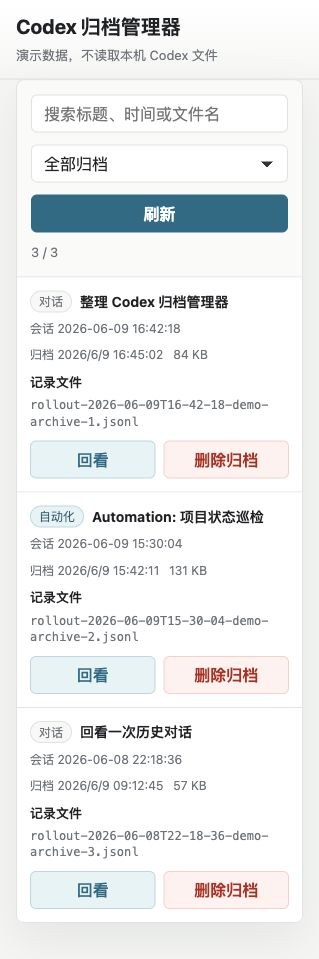
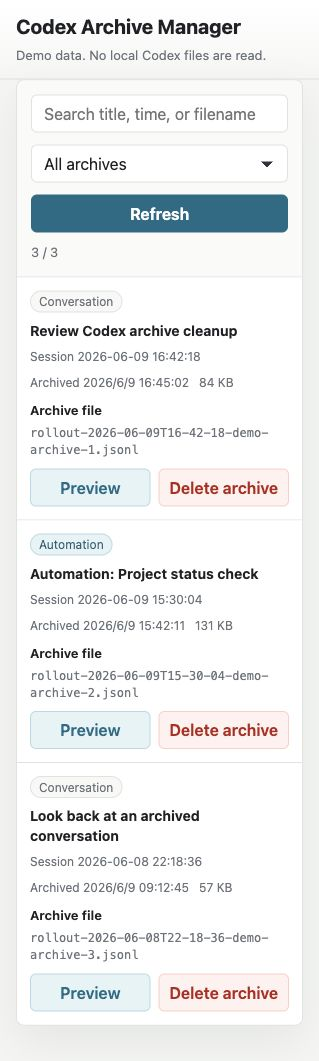
Switch interface copy to English

diff --git a/server.js b/server.js
@@ -69,19 +69,18 @@ function rolloutTimeFromName(name) {
 
 function localTime(seconds) {
   if (!seconds) return '';
-  return new Date(seconds * 1000).toLocaleString('zh-CN', {
-    timeZone: 'Asia/Shanghai',
+  return new Date(seconds * 1000).toLocaleString('en-US', {
     hour12: false,
   });
 }
 
 function compactTitle(row, id) {
   const raw = String(row?.title || row?.first_user_message || row?.preview || '').trim();
-  if (!raw) return `(未找到标题：${id})`;
+  if (!raw) return `(Untitled: ${id})`;
   const oneLine = raw.replace(/\s+/g, ' ').trim();
   if (oneLine.startsWith('Automation:')) {
     const match = oneLine.match(/Last run: (never|[0-9TZ:.\-]+)/);
-    return match ? `Automation: EyeFlow 对话轮换监控 (${match[1]})` : 'Automation: EyeFlow 对话轮换监控';
+    return match ? `Automation: EyeFlow conversation rotation monitor (${match[1]})` : 'Automation: EyeFlow conversation rotation monitor';
   }
   return oneLine.length > 120 ? `${oneLine.slice(0, 117)}...` : oneLine;
 }
@@ -280,7 +279,7 @@ const page = String.raw`<!doctype html>
 <head>
   <meta charset="utf-8">
   <meta name="viewport" content="width=device-width, initial-scale=1">
-  <title>Codex 归档管理器</title>
+  <title>Codex Archive Manager</title>
   <style>
     :root {
       color-scheme: light;
@@ -461,6 +460,7 @@ const page = String.raw`<!doctype html>
     button {
       cursor: pointer;
       font-weight: 620;
+      white-space: nowrap;
       transition: background-color .16s ease, border-color .16s ease, color .16s ease, transform .16s ease;
     }
     button:hover:not(:disabled) {
@@ -916,9 +916,10 @@ const page = String.raw`<!doctype html>
       justify-content: flex-start;
     }
     body.sidebar .row-actions button {
-      flex: 1 1 96px;
+      flex: 1 1 120px;
       height: 34px;
       padding: 0 8px;
+      font-size: 13px;
     }
     body.sidebar .row-meta {
       gap: 7px;
@@ -930,24 +931,24 @@ const page = String.raw`<!doctype html>
     <div class="shell">
       <div class="topbar">
         <div class="brand">
-          <h1>Codex 归档管理器</h1>
-          <div class="subtitle" id="archivePath">本地归档</div>
+          <h1>Codex Archive Manager</h1>
+          <div class="subtitle" id="archivePath">Local archive</div>
         </div>
       </div>
     </div>
   </header>
   <main>
-    <section class="workspace" aria-label="归档列表">
+    <section class="workspace" aria-label="Archive list">
       <div class="controls">
-        <label class="sr-only" for="q">搜索</label>
-        <input id="q" placeholder="搜索标题、时间或文件名">
-        <label class="sr-only" for="filter">筛选</label>
+        <label class="sr-only" for="q">Search</label>
+        <input id="q" placeholder="Search title, time, or filename">
+        <label class="sr-only" for="filter">Filter</label>
         <select id="filter">
-          <option value="all">全部归档</option>
-          <option value="normal">普通对话</option>
-          <option value="automation">自动化记录</option>
+          <option value="all">All archives</option>
+          <option value="normal">Conversations</option>
+          <option value="automation">Automation runs</option>
         </select>
-        <button id="refresh" class="primary">刷新</button>
+        <button id="refresh" class="primary">Refresh</button>
         <span id="meta" class="meta">0 / 0</span>
       </div>
       <div id="rows" class="archive-list"></div>
@@ -956,24 +957,24 @@ const page = String.raw`<!doctype html>
 
   <dialog id="confirm">
     <div class="modal">
-      <h2 id="confirmTitle">确认删除</h2>
+      <h2 id="confirmTitle">Confirm delete</h2>
       <p id="confirmBody"></p>
       <div class="modal-actions">
-        <button id="cancel">取消</button>
-        <button id="confirmDelete" class="danger">确认删除</button>
+        <button id="cancel">Cancel</button>
+        <button id="confirmDelete" class="danger">Confirm delete</button>
       </div>
     </div>
   </dialog>
   <dialog id="details" class="detail-dialog">
     <div class="modal">
-      <h2 id="detailsTitle">回看归档</h2>
+      <h2 id="detailsTitle">Archive Preview</h2>
       <div class="detail-body">
         <dl class="detail-meta" id="detailsMeta"></dl>
         <div class="transcript" id="detailsMessages"></div>
       </div>
       <div class="modal-actions">
-        <button id="openProject" class="ghost">打开项目文件夹</button>
-        <button id="closeDetails" class="primary">关闭</button>
+        <button id="openProject" class="ghost">Open project folder</button>
+        <button id="closeDetails" class="primary">Close</button>
       </div>
     </div>
   </dialog>
@@ -1016,7 +1017,7 @@ const page = String.raw`<!doctype html>
       return [
         {
           id: 'demo-archive-1',
-          title: '整理 Codex 归档管理器',
+          title: 'Review Codex archive cleanup',
           rolloutTime: '2026-06-09 16:42:18',
           archivedAt: '2026/6/9 16:45:02',
           updatedAt: '2026-06-09 16:42:18',
@@ -1027,7 +1028,7 @@ const page = String.raw`<!doctype html>
         },
         {
           id: 'demo-archive-2',
-          title: 'Automation: 项目状态巡检',
+          title: 'Automation: Project status check',
           rolloutTime: '2026-06-09 15:30:04',
           archivedAt: '2026/6/9 15:42:11',
           updatedAt: '2026-06-09 15:30:04',
@@ -1038,7 +1039,7 @@ const page = String.raw`<!doctype html>
         },
         {
           id: 'demo-archive-3',
-          title: '回看一次历史对话',
+          title: 'Look back at an archived conversation',
           rolloutTime: '2026-06-08 22:18:36',
           archivedAt: '2026/6/9 09:12:45',
           updatedAt: '2026-06-08 22:18:36',
@@ -1051,9 +1052,9 @@ const page = String.raw`<!doctype html>
     }
 
     function archiveKind(item) {
-      if (!item.exists) return '文件缺失';
-      if (item.title.startsWith('Automation:')) return '自动化';
-      return '对话';
+      if (!item.exists) return 'Missing file';
+      if (item.title.startsWith('Automation:')) return 'Automation';
+      return 'Conversation';
     }
 
     function showToast(message) {
@@ -1080,33 +1081,33 @@ const page = String.raw`<!doctype html>
       const items = visibleItems();
       meta.textContent = items.length + ' / ' + archives.length;
       if (!items.length) {
-        rows.innerHTML = '<div class="empty">没有匹配的归档</div>';
+        rows.innerHTML = '<div class="empty">No matching archives</div>';
         return;
       }
       rows.innerHTML = items.map(item => {
-        const size = item.exists ? item.sizeKB + ' KB' : '<span class="missing">文件已不在归档夹</span>';
+        const size = item.exists ? item.sizeKB + ' KB' : '<span class="missing">File is missing from the archive folder</span>';
         const kind = archiveKind(item);
-        const badgeClass = kind === '自动化' ? 'badge auto' : kind === '文件缺失' ? 'badge missing' : 'badge';
+        const badgeClass = kind === 'Automation' ? 'badge auto' : kind === 'Missing file' ? 'badge missing' : 'badge';
         return ''
           + '<article class="archive-row">'
           + '<div class="row-main">'
           + '<div class="row-topline"><span class="' + badgeClass + '">' + escapeHtml(kind) + '</span><span class="row-title">' + escapeHtml(item.title) + '</span></div>'
-          + '<div class="row-meta"><span>会话 ' + escapeHtml(item.rolloutTime || item.updatedAt || '') + '</span><span>归档 ' + escapeHtml(item.archivedAt || '未记录') + '</span><span>' + size + '</span></div>'
+          + '<div class="row-meta"><span>Session ' + escapeHtml(item.rolloutTime || item.updatedAt || '') + '</span><span>Archived ' + escapeHtml(item.archivedAt || 'Unknown') + '</span><span>' + size + '</span></div>'
           + '</div>'
-          + '<div class="row-side"><strong>记录文件</strong><span class="row-file">' + escapeHtml(item.fileName || item.file) + '</span></div>'
+          + '<div class="row-side"><strong>Archive file</strong><span class="row-file">' + escapeHtml(item.fileName || item.file) + '</span></div>'
           + '<div class="row-actions">'
-          + '<button data-action="view" data-id="' + escapeHtml(item.id) + '" class="ghost">回看</button>'
-          + '<button data-action="index" data-id="' + escapeHtml(item.id) + '" class="danger">删除归档</button>'
+          + '<button data-action="view" data-id="' + escapeHtml(item.id) + '" class="ghost">Preview</button>'
+          + '<button data-action="index" data-id="' + escapeHtml(item.id) + '" class="danger">Delete archive</button>'
           + '</div>'
           + '</article>';
       }).join('');
     }
 
     async function load() {
-      meta.textContent = '读取中';
+      meta.textContent = 'Loading';
       if (demoMode) {
         archives = demoArchives();
-        archivePath.textContent = '演示数据，不读取本机 Codex 文件';
+        archivePath.textContent = 'Demo data. No local Codex files are read.';
         render();
         return;
       }
@@ -1114,23 +1115,23 @@ const page = String.raw`<!doctype html>
       if (!res.ok) throw new Error(await res.text());
       const data = await res.json();
       archives = data.archives;
-      archivePath.textContent = data.archiveDir || '本地归档';
+      archivePath.textContent = data.archiveDir || 'Local archive';
       render();
     }
 
     function askDelete(item) {
       pendingDelete = { id: item.id, mode: 'index' };
       const confirmTitle = document.querySelector('#confirmTitle');
-      confirmTitle.textContent = '删除这条归档？';
-      confirmDelete.textContent = '确认删除归档';
+      confirmTitle.textContent = 'Delete this archive?';
+      confirmDelete.textContent = 'Delete archive';
       const notes = [
-        ['✓', '删除这条历史对话的归档文件。'],
-        ['✓', '同时从 Codex 的归档列表中移除这一项。'],
-        ['✓', '不会改动这个对话曾经使用过的项目文件。']
+        ['✓', 'Deletes the archived conversation file.'],
+        ['✓', 'Removes this item from the Codex archive list.'],
+        ['✓', 'Does not modify any files in the project used by this conversation.']
       ];
       confirmBody.innerHTML = ''
         + '<span class="delete-summary">'
-        + '<span class="delete-title">要删除的归档<span class="delete-name">' + escapeHtml(item.title) + '</span></span>'
+        + '<span class="delete-title">Archive to delete<span class="delete-name">' + escapeHtml(item.title) + '</span></span>'
         + '<span class="delete-note">'
         + notes.map(note => '<div><strong>' + escapeHtml(note[0]) + '</strong><span>' + escapeHtml(note[1]) + '</span></div>').join('')
         + '</span>'
@@ -1140,41 +1141,41 @@ const page = String.raw`<!doctype html>
 
     async function showDetails(item) {
       currentDetailsId = item.id;
-      detailsTitle.textContent = '读取中';
+      detailsTitle.textContent = 'Loading';
       detailsMeta.innerHTML = '';
-      detailsMessages.innerHTML = '<div class="empty">正在读取归档内容</div>';
+      detailsMessages.innerHTML = '<div class="empty">Loading archive content</div>';
       openProject.disabled = true;
       detailsDialog.showModal();
       if (demoMode) {
-        detailsTitle.textContent = item.title || '回看归档';
+        detailsTitle.textContent = item.title || 'Archive preview';
         openProject.disabled = true;
-        openProject.textContent = '演示模式';
+        openProject.textContent = 'Demo mode';
         detailsMeta.innerHTML = ''
-          + '<dt>项目路径</dt><dd>/demo/project</dd>'
-          + '<dt>归档时间</dt><dd>' + escapeHtml(item.archivedAt || '未记录') + '</dd>'
-          + '<dt>记录文件</dt><dd>' + escapeHtml(item.fileName || item.file || 'demo.jsonl') + '</dd>';
+          + '<dt>Project path</dt><dd>/demo/project</dd>'
+          + '<dt>Archived at</dt><dd>' + escapeHtml(item.archivedAt || 'Unknown') + '</dd>'
+          + '<dt>Archive file</dt><dd>' + escapeHtml(item.fileName || item.file || 'demo.jsonl') + '</dd>';
         detailsMessages.innerHTML = ''
-          + '<article class="message user"><div class="message-role">你</div><pre class="message-text">我想回看这次归档里做过什么。</pre></article>'
-          + '<article class="message"><div class="message-role">Codex</div><pre class="message-text">这里会显示归档里的用户和助手消息，方便你确认内容后再决定是否删除归档。</pre></article>';
+          + '<article class="message user"><div class="message-role">You</div><pre class="message-text">I want to review what happened in this archived conversation.</pre></article>'
+          + '<article class="message"><div class="message-role">Codex</div><pre class="message-text">The preview shows archived user and assistant messages so you can check the content before deleting the archive.</pre></article>';
         return;
       }
       try {
         const res = await fetch('/api/archives/' + item.id + '/details', { cache: 'no-store' });
         if (!res.ok) throw new Error(await res.text());
         const data = await res.json();
-        detailsTitle.textContent = data.title || '回看归档';
+        detailsTitle.textContent = data.title || 'Archive preview';
         openProject.disabled = !data.projectExists;
-        openProject.textContent = data.projectExists ? '打开项目文件夹' : '项目文件夹不存在';
+        openProject.textContent = data.projectExists ? 'Open project folder' : 'Project folder missing';
         detailsMeta.innerHTML = ''
-          + '<dt>项目路径</dt><dd>' + escapeHtml(data.cwd || '未记录') + '</dd>'
-          + '<dt>归档时间</dt><dd>' + escapeHtml(data.archivedAt || '未记录') + '</dd>'
-          + '<dt>记录文件</dt><dd>' + escapeHtml(data.rolloutPath || '未找到') + '</dd>';
+          + '<dt>Project path</dt><dd>' + escapeHtml(data.cwd || 'Unknown') + '</dd>'
+          + '<dt>Archived at</dt><dd>' + escapeHtml(data.archivedAt || 'Unknown') + '</dd>'
+          + '<dt>Archive file</dt><dd>' + escapeHtml(data.rolloutPath || 'Not found') + '</dd>';
         if (!data.messages.length) {
-          detailsMessages.innerHTML = '<div class="empty">没有可预览的用户/助手消息</div>';
+          detailsMessages.innerHTML = '<div class="empty">No user or assistant messages to preview</div>';
           return;
         }
         detailsMessages.innerHTML = data.messages.map(message => {
-          const role = message.role === 'user' ? '你' : 'Codex';
+          const role = message.role === 'user' ? 'You' : 'Codex';
           const className = message.role === 'user' ? 'message user' : 'message';
           return ''
             + '<article class="' + className + '">'
@@ -1183,7 +1184,7 @@ const page = String.raw`<!doctype html>
             + '</article>';
         }).join('');
       } catch (err) {
-        detailsTitle.textContent = '读取失败';
+        detailsTitle.textContent = 'Failed to load';
         detailsMessages.innerHTML = '<div class="empty">' + escapeHtml(err.message || String(err)) + '</div>';
       }
     }
@@ -1194,7 +1195,7 @@ const page = String.raw`<!doctype html>
       try {
         const res = await fetch('/api/archives/' + currentDetailsId + '/open-project', { method: 'POST' });
         if (!res.ok) throw new Error(await res.text());
-        showToast('已打开项目文件夹');
+        showToast('Project folder opened');
       } catch (err) {
         alert(err.message || String(err));
       } finally {
@@ -1206,12 +1207,12 @@ const page = String.raw`<!doctype html>
       if (!pendingDelete) return;
       if (demoMode) {
         dialog.close();
-        showToast('演示模式不会删除文件');
+        showToast('Demo mode does not delete files');
         pendingDelete = null;
         return;
       }
       confirmDelete.disabled = true;
-      confirmDelete.textContent = '删除中';
+      confirmDelete.textContent = 'Deleting';
       try {
         const res = await fetch('/api/archives/' + pendingDelete.id, {
           method: 'DELETE',
@@ -1221,12 +1222,12 @@ const page = String.raw`<!doctype html>
         if (!res.ok) throw new Error(await res.text());
         dialog.close();
         await load();
-        showToast('已删除归档');
+        showToast('Archive deleted');
       } catch (err) {
         alert(err.message || String(err));
       } finally {
         confirmDelete.disabled = false;
-        confirmDelete.textContent = '确认删除归档';
+        confirmDelete.textContent = 'Delete archive';
         pendingDelete = null;
       }
     }
@@ -1248,7 +1249,7 @@ const page = String.raw`<!doctype html>
     });
 
     load().catch(err => {
-      meta.textContent = '读取失败';
+      meta.textContent = 'Failed to load';
       rows.innerHTML = '<div class="empty">' + escapeHtml(err.message || err) + '</div>';
     });
   </script>

diff --git a/README.md b/README.md
@@ -10,7 +10,7 @@ Local-first archive viewer and cleaner for Codex Desktop sessions.
 
 - Lists archived Codex sessions with readable titles and timestamps.
 - Searches and filters normal conversations and automation runs.
-- Previews archived user/assistant conversations with `回看`.
+- Previews archived user/assistant conversations with `Preview`.
 - Opens the recorded project folder when it still exists locally.
 - Removes archived session files and the matching local Codex thread index record.
 
@@ -48,17 +48,17 @@ All data stays local. The app does not upload archives, database contents, proje
 
 ## Delete Behavior
 
-Use `删除归档` to remove the archived `.jsonl` session file and delete the matching local Codex thread index row.
+Use `Delete archive` to remove the archived `.jsonl` session file and delete the matching local Codex thread index row.
 
 This only changes Codex archive/session metadata. It does not modify files inside your project directories.
 
 ## Review Archives
 
-Use `回看` to preview the archived user/assistant conversation, see the recorded project folder, and open that folder when it still exists locally.
+Use `Preview` to inspect the archived user/assistant conversation, see the recorded project folder, and open that folder when it still exists locally.
 
 ## Safety Notes
 
-- This tool edits local Codex metadata only when you choose `删除归档`.
+- This tool edits local Codex metadata only when you choose `Delete archive`.
 - Codex may also keep lower-level logs such as `logs_2.sqlite`; this tool intentionally does not edit those logs.
 - Back up your Codex data before using destructive actions on important sessions.
 - Do not commit your real `~/.codex` data, `.jsonl` archives, or SQLite databases.
